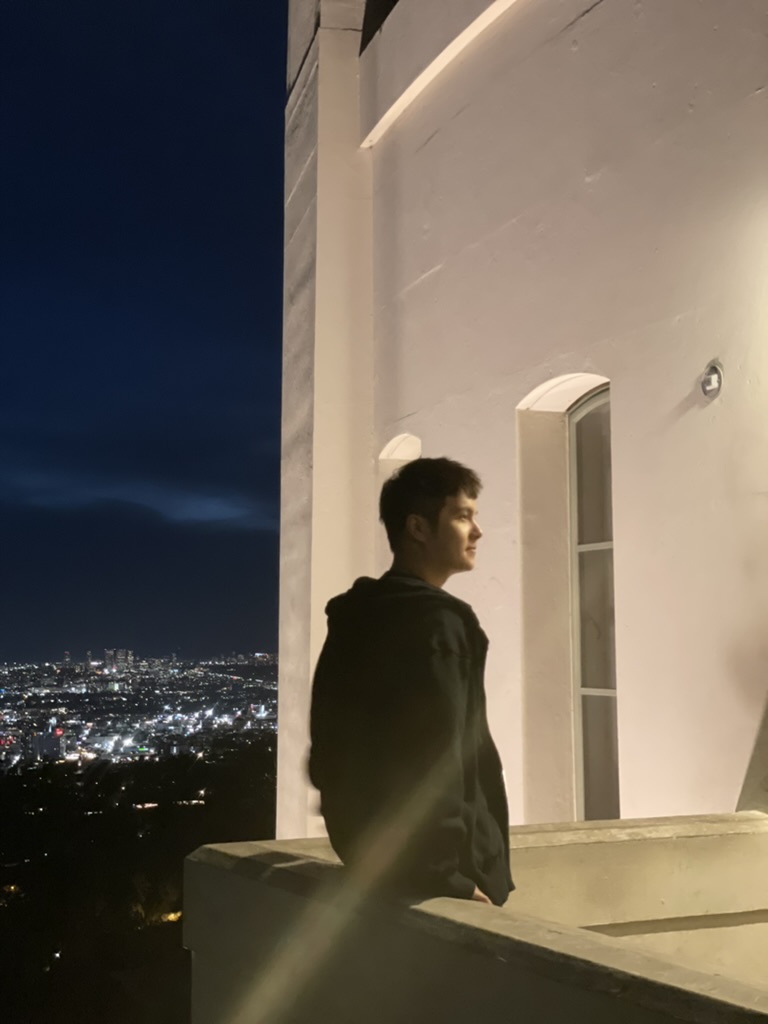
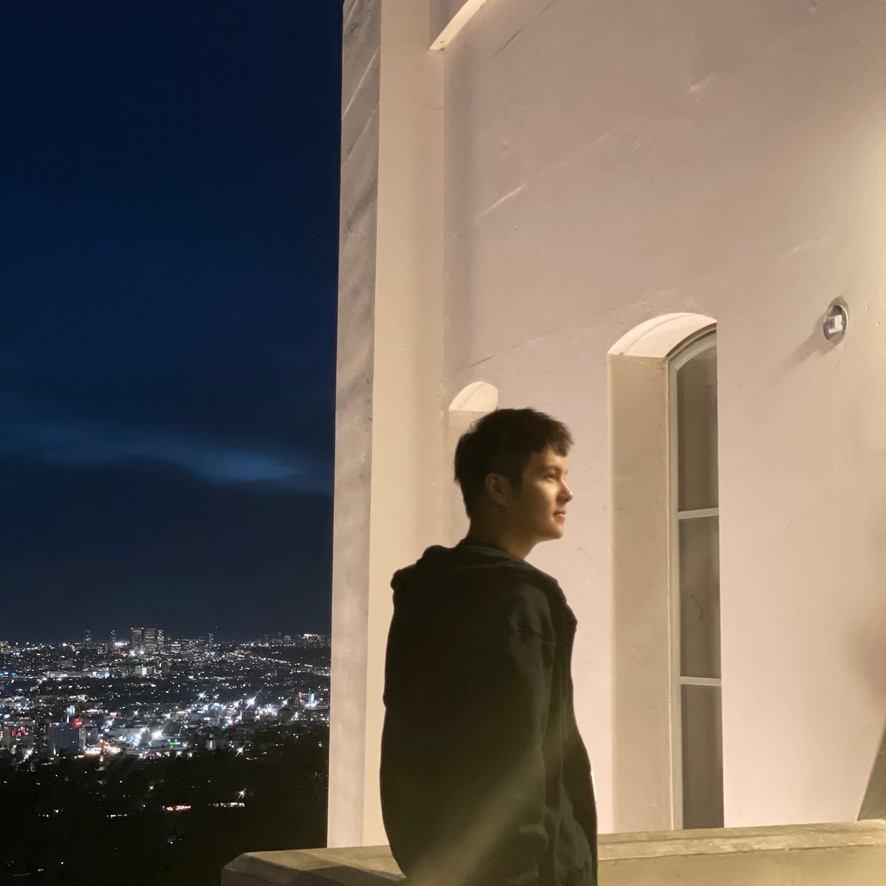
changed things

diff --git a/react-portfolio-junhe-chen/src/components/about/about.css b/react-portfolio-junhe-chen/src/components/about/about.css
@@ -1,0 +1,121 @@
+:root{
+    /* more color variables */
+    --red: hsl(0, 78%, 62%);
+    --cyan: hsl(180, 62%, 55%);
+    --orange: hsl(34, 97%, 64%);
+    --blue: hsl(212, 86%, 64%);
+    --varyDarkBlue: hsl(234, 12%, 34%);
+    --grayishBlue: hsl(229, 6%, 66%);
+    --veryLightGray: hsl(0, 0%, 98%);
+}
+/* container style */
+.about__container{
+    display: grid;
+    grid-template-columns: 35% 50%;
+    gap: 15%;
+    
+}
+
+.about__me{
+    width: 100%;
+    background: linear-gradient(
+        45deg,
+        transparent,
+        var(--color-primary),
+        transparent
+    );
+    aspect-ratio: 1/1;
+    border-radius: 2rem;
+    display: grid;
+    place-items: center;
+}
+.about__me-img{
+    border-radius: 2rem;
+    overflow: hidden;
+    transform: rotate(10deg);
+    transition: var(--transition);
+}
+.about__me-img:hover{
+    transform: rotate(0deg);
+}
+/* right side of the web */
+
+/* cards grid */
+.about__cards{
+    display: grid;
+    grid-template-columns: repeat(3,1fr);
+    gap: 1.5rem;
+}
+/* card styles */
+.about__card{
+    background-color: var(--color-white);
+    border: 1px solid transparent;
+    border-radius: 1rem;
+    box-shadow: 0px 10px 20px -5px var(--grayishBlue);
+    padding: 2rem;
+    text-align: center;
+}
+.about__card:hover{
+    background: var(--color-primary);
+    color: white;
+    border-color: var(--color-primary-variant);
+    transition: var(--transition);
+    cursor: default;
+}
+.about__card h5{
+    font-size: 0.95rem;
+}
+.about__card small{
+    font-size: 0.7rem;
+}
+
+/* card top */
+.red {
+    border-top: 3px solid var(--red);
+}
+.blue {
+    border-top: 3px solid var(--blue);
+}
+.orange {
+    border-top: 3px solid var(--orange);
+}
+
+/* intro p styles */
+p{ 
+    margin: 2rem 0 2.6rem;
+
+    
+}
+/* MEDIA QUERIES */
+
+/* MD DEVICES */
+@media screen and (max-width:1024px) {
+    .about__container{
+        grid-template-columns: 1fr;
+        gap: 0;
+    }
+    .about__me{
+        width: 50%;
+        margin: 2rem auto 4rem;
+    }
+    .about__content p{
+        margin: 1rem 0 1.5rem;
+    }
+
+ }
+ 
+ /* SM DEVICES */
+ @media screen and (max-width:600px) {
+    .about__me{
+        width: 65%;
+        margin: 0 auto 3rem;
+    }
+    .about__cards{
+        grid-template-columns: 1fr,1fr;
+        gap: 1rem;
+    }
+    .about__content p{
+        margin: 1.5rem 0;
+    }
+
+ }

diff --git a/react-portfolio-junhe-chen/src/components/about/About.jsx b/react-portfolio-junhe-chen/src/components/about/About.jsx
@@ -1,8 +1,53 @@
 import React from 'react'
 import './about.css'
+import ME from '../../assets/me.jpeg'
+import {MdCastForEducation} from 'react-icons/md'
+import {GiSkills} from 'react-icons/gi'
+import {AiOutlineTool} from 'react-icons/ai'
 const About = () => {
   return (
-    <section id='about'>About</section>
+    <section id='about'>
+      <h5>Get To Know</h5>
+      <h2>About Me</h2>
+      <div className="container about__container">
+        <div className="about__me">
+          <div className="about__me-img">
+            <img src={ME} alt="me_image" />
+          </div>
+        </div>
+        <div className="about__content">
+          <div className="about__cards">
+            <article className="about__card">
+              <MdCastForEducation className="about__icon orange"/>
+              <h5>Education</h5>
+              <small>B.S Computer Science</small>
+              <br />
+              <small>2021 - 2023</small>
+            </article>
+            <article className="about__card">
+              <GiSkills className="about__icon red"/>
+              <h5>Skills</h5>
+              <small>Java</small>
+              <br />
+              <small>C/C++</small>
+              <br />
+              <small>JavaScript</small>
+
+              
+            </article>
+            <article className="about__card">
+              <AiOutlineTool className="about__icon blue"/>
+              <h5>Working Background</h5>
+              <small>Regional Manager</small>
+              <br />
+              <small>2018 - 2020</small>
+            </article>
+          </div>
+          <p>Here is detali of my cover letter</p>
+          <a href="#contact" className="btn btn-primary">Contact Now</a>
+        </div>
+      </div>
+    </section>
   )
 }
 

diff --git a/react-portfolio-junhe-chen/src/components/experience/Experience.jsx b/react-portfolio-junhe-chen/src/components/experience/Experience.jsx
@@ -2,7 +2,10 @@ import React from 'react'
 import './experience.css'
 const Experience = () => {
   return (
-    <section id='experience'>Experience</section>
+    <section id='experience'>
+      <h5>Here Are My</h5>
+      <h2>Experiences</h2>
+    </section>
   )
 }
 

diff --git a/react-portfolio-junhe-chen/src/components/portfolio/Portfolio.jsx b/react-portfolio-junhe-chen/src/components/portfolio/Portfolio.jsx
@@ -2,7 +2,10 @@ import React from 'react'
 import './portfolio.css'
 const Portfolio = () => {
   return (
-    <section id='portfolio'>Portfolio</section>
+    <section id='portfolio'>
+      <h5>Past Projects</h5>
+      <h2>Portfolio</h2>
+    </section>
   )
 }
 

diff --git a/react-portfolio-junhe-chen/src/components/contact/Contact.jsx b/react-portfolio-junhe-chen/src/components/contact/Contact.jsx
@@ -2,7 +2,10 @@ import React from 'react'
 import './contact.css'
 const Contact = () => {
   return (
-    <section id='contact'>Contact</section>
+    <section id='contact'>
+      <h5>Getting In Touch</h5>
+      <h2>Contact Me</h2>
+    </section>
   )
 }
 
